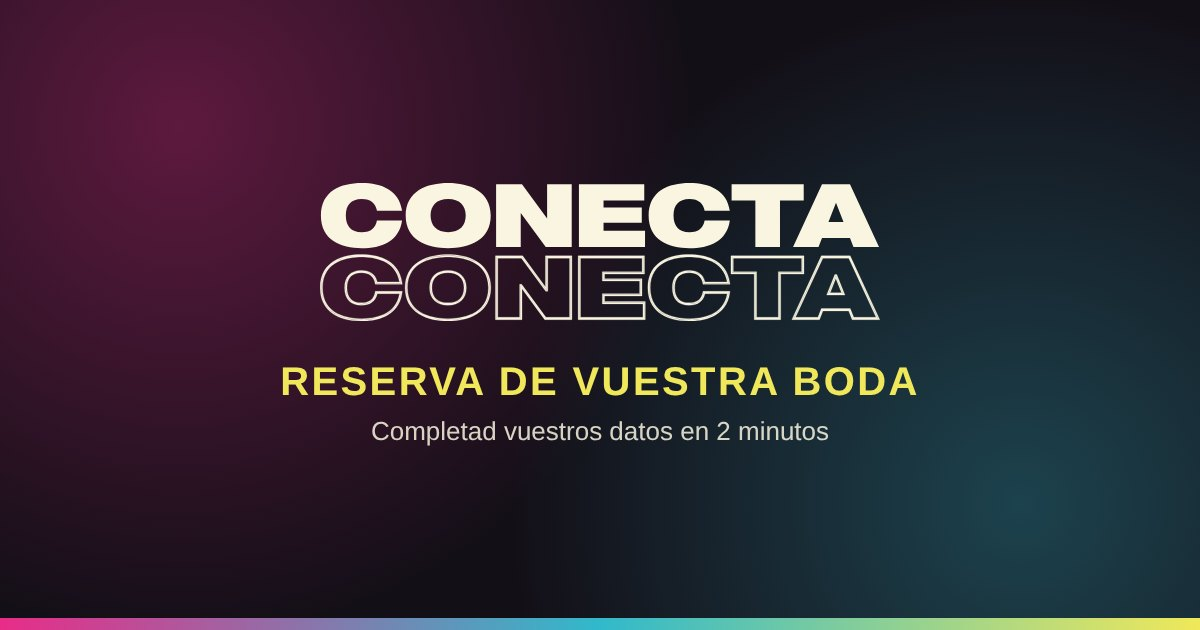
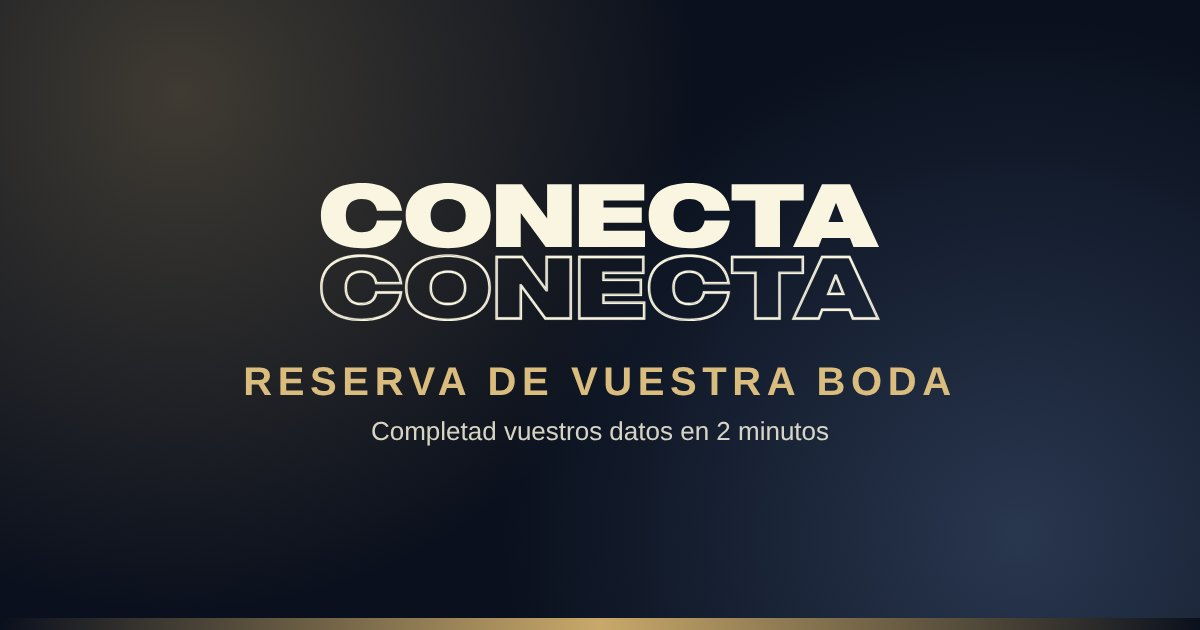
Reservas en azul noche + dorado (pestaña, ventanas, página de los novios y vista previa de WhatsApp); nombre con los dos apellidos obligatorio; numerito en el menú con las reservas con datos recibidos y pasos pendientes
Claude-Session: https://claude.ai/code/session_01QogouWqz99aRZadTndRKpR

Changed region(s): [[0.0, 0.0, 0.8017, 0.6333], [0.0, 0.9651, 1.0, 1.0]]

diff --git a/server/reservas.js b/server/reservas.js
@@ -383,7 +383,8 @@ module.exports = function makeReservas(deps) {
       const n = { s1: sp(b.s1), s2: sp(b.s2), fecha: S(b.fecha, 10), lugar: S(b.lugar, 160), comentario: S(b.comentario, 1500) };
       if (b.wp && b.wp.has && S(b.wp.name)) n.wp = { name: S(b.wp.name), email: S(b.wp.email).toLowerCase() };
       const miss = [];
-      if (!n.s1.name) miss.push('nombre y apellidos'); if (!n.s1.dni) miss.push('DNI / NIE');
+      if (!n.s1.name) miss.push('nombre y los dos apellidos');
+      else if (n.s1.name.split(/\s+/).filter(Boolean).length < 3) miss.push('el nombre completo con los DOS apellidos (lo necesitamos para la factura)'); if (!n.s1.dni) miss.push('DNI / NIE');
       if (!/^[^@\s]+@[^@\s]+\.[^@\s]+$/.test(n.s1.email)) miss.push('email válido'); if (!n.s1.mobile) miss.push('móvil');
       if (!/^\d{4}-\d{2}-\d{2}$/.test(n.fecha)) miss.push('fecha de la boda'); if (!n.lugar) miss.push('lugar de la boda');
       if (!b.consent) miss.push('aceptar el tratamiento de datos');
@@ -408,7 +409,7 @@ module.exports = function makeReservas(deps) {
 <title>${escH(title)}</title><meta name="robots" content="noindex,nofollow">
 <meta property="og:type" content="website"><meta property="og:title" content="${escH(title)}"><meta property="og:description" content="${escH(desc)}">
 <meta property="og:image" content="${escH(base)}/assets/brand/og-reserva.jpg"><meta property="og:image:width" content="1200"><meta property="og:image:height" content="630">
-<meta name="twitter:card" content="summary_large_image"><meta name="theme-color" content="#130F17"><link rel="icon" href="/assets/brand/favicon-32.png">
+<meta name="twitter:card" content="summary_large_image"><meta name="theme-color" content="#0A101D"><link rel="icon" href="/assets/brand/favicon-32.png">
 <link rel="preconnect" href="https://fonts.googleapis.com"><link rel="preconnect" href="https://fonts.gstatic.com" crossorigin><link rel="stylesheet" href="https://fonts.googleapis.com/css2?family=Archivo+Black&display=swap">
 <style>${PAGE_CSS}</style></head><body>
 <header class="top"><img src="/assets/brand/logo-principal-blanco.svg" alt="Conecta So" class="logo"><div class="kick">Reserva de vuestra boda</div></header>
@@ -424,42 +425,46 @@ module.exports = function makeReservas(deps) {
 
 /* ---------------- estilos y lógica de la página pública ---------------- */
 const PAGE_CSS = `
-@font-face{font-family:'Outer Sans';src:url('/assets/fonts/outer-sans-black.woff2') format('woff2');font-weight:900;font-display:swap}
 @font-face{font-family:'Evolve Sans';src:url('/assets/fonts/evolve-sans.woff2') format('woff2');font-weight:400;font-display:swap}
-:root{--ink:#130F17;--cream:#F9F5E1;--pink:#E82C88;--blue:#31B9CB;--yellow:#F0E85A;--muted:#6a6472;--line:#e3ddd0}
+/* Azul noche + dorado (mismos tonos que el tema elegante de la intranet) */
+:root{--bg:#0C1322;--bg2:#0A101D;--card:#131C30;--card2:#182340;--line:#2B3A5C;--text:#ECEFF6;--muted:#9AA6BF;--gold:#C9A96A;--gold2:#E3C68C;--blue:#6F8FC2;--red:#E07A7A;color-scheme:dark}
 *{box-sizing:border-box}html,body{margin:0}
-body{font-family:'Evolve Sans',-apple-system,Segoe UI,Roboto,Arial,sans-serif;background:var(--cream);color:var(--ink);font-size:15px;line-height:1.5}
-.top{background:var(--ink);padding:34px 16px 30px;text-align:center;position:relative;overflow:hidden}
-.top:after{content:"";position:absolute;left:0;right:0;bottom:0;height:6px;background:linear-gradient(90deg,var(--pink),var(--blue),var(--yellow))}
+body{font-family:'Evolve Sans',-apple-system,Segoe UI,Roboto,Arial,sans-serif;background:var(--bg);color:var(--text);font-size:15px;line-height:1.5;
+ background-image:radial-gradient(circle at 10% 0%,rgba(201,169,106,.10),transparent 40%),radial-gradient(circle at 100% 30%,rgba(111,143,194,.12),transparent 45%);background-attachment:fixed}
+.top{background:var(--bg2);padding:36px 16px 30px;text-align:center;position:relative;overflow:hidden;border-bottom:1px solid var(--line)}
+.top:after{content:"";position:absolute;left:0;right:0;bottom:0;height:3px;background:linear-gradient(90deg,transparent,var(--gold),transparent)}
 .logo{width:220px;max-width:70%;height:auto}
-.kick{margin-top:12px;color:var(--yellow);font-family:'Archivo Black','Outer Sans',Arial Black,sans-serif;font-size:13px;letter-spacing:.14em;text-transform:uppercase}
+.kick{margin-top:14px;color:var(--gold);font-family:'Archivo Black',Arial Black,sans-serif;font-size:12.5px;letter-spacing:.22em;text-transform:uppercase}
 main{max-width:620px;margin:0 auto;padding:22px 16px 30px}
-.card{background:#fff;border:2px solid var(--ink);padding:18px 18px;margin-bottom:16px}
-h2{font-family:'Archivo Black','Outer Sans',Arial Black,sans-serif;font-size:19px;margin:0 0 12px;letter-spacing:-.01em}
-h3{font-size:14px;margin:18px 0 8px;text-transform:uppercase;letter-spacing:.06em;color:var(--muted)}
-.pack{font-family:'Archivo Black','Outer Sans',Arial Black,sans-serif;font-size:24px;color:var(--pink)}
-.ex{margin:8px 0 0;padding:0;list-style:none}.ex li{padding:4px 0;border-top:1px dashed var(--line)}.ex li:before{content:"+ ";color:var(--pink);font-weight:700}
-.amount{display:flex;justify-content:space-between;align-items:baseline;margin-top:14px;padding-top:12px;border-top:2px solid var(--ink)}
-.amount b{font-size:22px}
+.card{background:var(--card);border:1px solid var(--line);border-top:2px solid var(--gold);padding:20px 18px;margin-bottom:16px;box-shadow:0 18px 40px rgba(0,0,0,.35)}
+h2{font-family:'Archivo Black',Arial Black,sans-serif;font-size:18px;margin:0 0 12px;letter-spacing:.01em;color:var(--text)}
+h3{font-size:12.5px;margin:20px 0 8px;text-transform:uppercase;letter-spacing:.16em;color:var(--gold)}
+.pack{font-family:'Archivo Black',Arial Black,sans-serif;font-size:26px;color:var(--gold);letter-spacing:.01em}
+.ex{margin:8px 0 0;padding:0;list-style:none}.ex li{padding:6px 0;border-top:1px solid var(--line)}.ex li:before{content:"+ ";color:var(--gold);font-weight:700}
+.amount{display:flex;justify-content:space-between;align-items:baseline;margin-top:14px;padding-top:12px;border-top:1px solid var(--gold)}
+.amount b{font-size:24px;color:var(--gold2)}
 .muted{color:var(--muted)}.small{font-size:12.5px}
-label{display:block;font-weight:700;font-size:13px;margin:12px 0 4px}
-input:not([type=checkbox]),textarea{width:100%;font:inherit;padding:11px 12px;border:2px solid var(--ink);background:#fff;border-radius:0;-webkit-appearance:none}
-input[type=checkbox]{accent-color:var(--pink)}
-input:not([type=checkbox]):focus,textarea:focus{outline:3px solid var(--blue);outline-offset:0}
+label{display:block;font-weight:700;font-size:13px;margin:12px 0 5px;color:var(--text)}
+input:not([type=checkbox]),textarea{width:100%;font:inherit;padding:12px 13px;border:1px solid var(--line);background:#0F172B;color:var(--text);border-radius:0;-webkit-appearance:none}
+input::placeholder,textarea::placeholder{color:#5f6c88}
+input[type=checkbox]{accent-color:var(--gold)}
+input:not([type=checkbox]):focus,textarea:focus{outline:none;border-color:var(--gold);box-shadow:0 0 0 3px rgba(201,169,106,.22)}
+input[type=date]{min-height:48px}
 .grid{display:grid;grid-template-columns:1fr 1fr;gap:0 12px}@media(max-width:520px){.grid{grid-template-columns:1fr}}
 .chk{display:flex;gap:10px;align-items:flex-start;font-weight:400;font-size:13.5px}.chk input{width:20px;height:20px;flex:none;margin-top:1px}
-.btn{display:block;width:100%;padding:15px;border:2px solid var(--ink);background:var(--pink);color:#fff;font-family:'Archivo Black','Outer Sans',Arial Black,sans-serif;font-size:15px;letter-spacing:.04em;text-transform:uppercase;cursor:pointer;box-shadow:4px 4px 0 var(--ink);margin-top:18px;text-align:center;text-decoration:none}
-.btn:active{transform:translate(3px,3px);box-shadow:1px 1px 0 var(--ink)}
-.btn--ghost{background:#fff;color:var(--ink)}
-.err{background:#fde7e9;border:2px solid #c62828;color:#8b1a1a;padding:10px 12px;margin-top:12px;font-weight:700}
+.btn{display:block;width:100%;padding:16px;border:0;background:linear-gradient(135deg,var(--gold2),var(--gold));color:#0C1322;font-family:'Archivo Black',Arial Black,sans-serif;font-size:14.5px;letter-spacing:.08em;text-transform:uppercase;cursor:pointer;box-shadow:0 10px 26px rgba(201,169,106,.28);margin-top:18px;text-align:center;text-decoration:none}
+.btn:active{transform:translateY(1px);box-shadow:0 4px 12px rgba(201,169,106,.25)}
+.btn:disabled{opacity:.7}
+.btn--ghost{background:transparent;color:var(--text);border:1px solid var(--line);box-shadow:none}
+.err{background:rgba(224,122,122,.12);border:1px solid var(--red);border-left:3px solid var(--red);color:#F2B3B3;padding:10px 12px;margin-top:12px;font-weight:700}
 .ok{text-align:center}.ok .big{font-size:46px}
-.ovl{position:fixed;inset:0;background:rgba(19,15,23,.72);display:flex;align-items:center;justify-content:center;padding:16px;z-index:9}
+.ovl{position:fixed;inset:0;background:rgba(5,8,15,.8);display:flex;align-items:center;justify-content:center;padding:16px;z-index:9;backdrop-filter:blur(3px)}
 .ovl .card{max-width:480px;width:100%;margin:0}
-.conf div{padding:9px 0;border-bottom:1px dashed var(--line);font-size:16px}.conf span{display:block;font-size:12px;color:var(--muted);text-transform:uppercase;letter-spacing:.06em}
-.conf .date{font-size:20px;font-weight:800;color:var(--pink)}
-.warn{background:#fff8cc;border:2px solid var(--ink);padding:10px 12px;margin-top:10px;font-weight:700}
+.conf div{padding:10px 0;border-bottom:1px solid var(--line);font-size:16px}.conf span{display:block;font-size:11.5px;color:var(--muted);text-transform:uppercase;letter-spacing:.12em}
+.conf .date{font-size:21px;font-weight:800;color:var(--gold2)}
+.warn{background:rgba(201,169,106,.12);border:1px solid var(--gold);padding:10px 12px;margin-top:10px;font-weight:700;color:var(--gold2)}
 .row2{display:flex;gap:10px}.row2 .btn{margin-top:14px}
-.note{background:#eaf7f9;border:2px solid var(--ink);padding:10px 12px;margin:16px 0 4px;font-size:13.5px}
+.note{background:var(--card2);border:1px solid var(--line);border-left:3px solid var(--gold);padding:11px 13px;margin:16px 0 4px;font-size:13.5px;color:var(--text)}
 .hp{position:absolute;left:-9999px;width:1px;height:1px;overflow:hidden}
 .foot{text-align:center;color:var(--muted);font-size:12px;padding:10px 16px 30px}.foot a{color:var(--muted)}
 `;
@@ -486,7 +491,7 @@ function done(d){
 }
 function form(d,err){
  app.innerHTML=packCard(d)+'<form class="card" id="f" novalidate><h2>Vuestros datos</h2><p class="muted small">Los necesitamos para la factura de reserva y para crear vuestra intranet privada.</p>'+
- '<h3>Datos de uno de los dos</h3><label>Nombre y apellidos</label><input name="s1n" autocomplete="name" required><div class="grid"><div><label>DNI / NIE</label><input name="s1d" required></div><div><label>Móvil</label><input name="s1m" type="tel" autocomplete="tel" required></div></div><label>Email</label><input name="s1e" type="email" autocomplete="email" required>'+
+ '<h3>Datos de uno de los dos</h3><label>Nombre y los dos apellidos</label><input name="s1n" autocomplete="name" placeholder="Ej.: Laura Pérez Gil" required><div class="grid"><div><label>DNI / NIE</label><input name="s1d" required></div><div><label>Móvil</label><input name="s1m" type="tel" autocomplete="tel" required></div></div><label>Email</label><input name="s1e" type="email" autocomplete="email" required>'+
  '<p class="note">💡 Con los datos de uno de los dos es suficiente. Los datos del otro cónyuge los podréis introducir más adelante dentro de vuestra propia intranet.</p>'+
  '<h3>La boda</h3><label>Fecha de la boda</label><input name="fecha" type="date" required><label>Lugar de la celebración (nombre de la finca)</label><input name="lugar" placeholder="Ej.: Mas la Boella" required>'+
  '<label class="chk" style="margin-top:16px"><input type="checkbox" name="wph" id="wph"> Tenemos wedding planner</label><div id="wpb" hidden><label>Nombre de la wedding planner</label><input name="wpn"><label>Email de la wedding planner <span class="muted">(opcional)</span></label><input name="wpe" type="email"></div>'+
@@ -497,7 +502,7 @@ function form(d,err){
  var f=document.getElementById('f');document.getElementById('wph').onchange=function(){document.getElementById('wpb').hidden=!this.checked};
  if(window.__last){Object.keys(window.__last).forEach(function(k){var e=f.elements[k];if(!e)return;if(e.type==='checkbox')e.checked=!!window.__last[k];else e.value=window.__last[k]});document.getElementById('wpb').hidden=!f.elements.wph.checked}
  f.onsubmit=function(ev){ev.preventDefault();var v={};Array.prototype.forEach.call(f.elements,function(e){if(e.name)v[e.name]=e.type==='checkbox'?e.checked:e.value.trim()});window.__last=v;
-  var miss=[];if(!v.s1n)miss.push('nombre y apellidos');if(!v.s1d)miss.push('DNI / NIE');if(!/^[^@\\s]+@[^@\\s]+\\.[^@\\s]+$/.test(v.s1e))miss.push('email válido');if(!v.s1m)miss.push('móvil');if(!v.fecha)miss.push('fecha');if(!v.lugar)miss.push('lugar');if(!v.consent)miss.push('aceptar el tratamiento de datos');
+  var miss=[];if(!v.s1n)miss.push('nombre y los dos apellidos');else if(v.s1n.split(/\\s+/).filter(Boolean).length<3)miss.push('el nombre completo con los DOS apellidos (lo necesitamos para la factura)');if(!v.s1d)miss.push('DNI / NIE');if(!/^[^@\\s]+@[^@\\s]+\\.[^@\\s]+$/.test(v.s1e))miss.push('email válido');if(!v.s1m)miss.push('móvil');if(!v.fecha)miss.push('fecha');if(!v.lugar)miss.push('lugar');if(!v.consent)miss.push('aceptar el tratamiento de datos');
   if(miss.length){form(d,'Falta: '+miss.join(', ')+'.');return}
   confirmBox(d,v)}
 }

diff --git a/public/assets/app-admin.js b/public/assets/app-admin.js
@@ -42,6 +42,7 @@ async function reservasPage() {
   loading(['Reservas']);
   let data; try { data = await api('reservas'); } catch (e) { shell(`<div class="empty">${esc(e.message)}</div>`, ['Reservas']); return; }
   const list = data.reservas || [];
+  try { CS.setBadgeCount('reservas', list.filter(x => x.submittedAt && x.status !== 'cancelada' && (x.checks || []).some(c => !c.at)).length); } catch (e) {}
   // Una reserva solo está "completada" cuando la boda está creada Y todo el checklist marcado.
   const allDone = r => (r.checks || []).length > 0 && (r.checks || []).every(c => c.at);
   const act = list.filter(r => r.status !== 'cancelada' && !(r.status === 'creada' && allDone(r))), done = list.filter(r => r.status === 'creada' && allDone(r)), canc = list.filter(r => r.status === 'cancelada');
@@ -60,10 +61,10 @@ async function reservasPage() {
       <div class="res-card__foot"><span>${esc(r.code)} · ${resEur(r.importe.total)}</span><span class="${ok ? 'res-ok-txt' : 'res-no-txt'}">${cancel ? '' : (ok ? 'Todo hecho' : `Faltan ${nTot - nChk} pasos`)}</span></div>
       ${cancel ? '' : `<div class="res-bar"><span style="width:${nTot ? Math.round(nChk / nTot * 100) : 0}%"></span></div>`}</div>`;
   };
-  shell(`${pageHead('Reservas', 'Ventas directas: genera el enlace para los novios y sigue cada reserva hasta crear la boda.', `<button class="btn btn--primary" id="resNew">+ Nueva venta</button>${data.isAdmin ? ' <button class="btn" id="resCfg">⚙ Configuración</button>' : ''}`)}
+  shell(`<div class="res-scope">${pageHead('Reservas', 'Ventas directas: genera el enlace para los novios y sigue cada reserva hasta crear la boda.', `<button class="btn btn--primary" id="resNew">+ Nueva venta</button>${data.isAdmin ? ' <button class="btn" id="resCfg">⚙ Configuración</button>' : ''}`)}
     ${act.length ? `<div class="res-grid">${act.map(card).join('')}</div>` : '<div class="panel"><div class="panel__body"><p class="hint">No hay reservas en curso. Pulsa <b>+ Nueva venta</b> para generar un enlace.</p></div></div>'}
     ${done.length ? `<details class="res-more"><summary>Completadas: boda creada y todo el checklist hecho (${done.length})</summary><div class="res-grid">${done.map(card).join('')}</div></details>` : ''}
-    ${canc.length ? `<details class="res-more"><summary>Canceladas (${canc.length})</summary><div class="res-grid">${canc.map(card).join('')}</div></details>` : ''}`, ['Reservas']);
+    ${canc.length ? `<details class="res-more"><summary>Canceladas (${canc.length})</summary><div class="res-grid">${canc.map(card).join('')}</div></details>` : ''}</div>`, ['Reservas']);
   el('resNew').onclick = () => reservaNueva(data);
   if (el('resCfg')) el('resCfg').onclick = () => reservasConfig();
   $$('[data-res]').forEach(c => c.onclick = () => reservaDetalle(+c.dataset.res, data));
@@ -96,7 +97,7 @@ function reservaNueva(data, cur) {   // cur = reserva existente → modo EDITAR 
       reservaLink(r.reserva); reservasPage();
     } catch (e) { toast(e.message, 'err'); return true; }
   } });
-  bg.querySelector('.modal').classList.add('modal--wide');
+  bg.querySelector('.modal').classList.add('modal--wide', 'res-modal');
   const total = () => {
     const pack = (bg.querySelector('[name=pack]:checked') || {}).value;
     const nEx = $$('#rnExtras input:checked', bg).length + $$('[data-otro]', bg).filter(r => r.dataset.suma === '1' && r.querySelector('input[type=text]').value.trim()).length;
@@ -125,10 +126,11 @@ function reservaNueva(data, cur) {   // cur = reserva existente → modo EDITAR 
   total();
 }
 function reservaLink(r) {
-  modal('Enlace listo para enviar', `<p>Envíaselo a los novios por WhatsApp. Al abrirlo verán su pack y rellenarán sus datos.</p>
+  const lbg = modal('Enlace listo para enviar', `<p>Envíaselo a los novios por WhatsApp. Al abrirlo verán su pack y rellenarán sus datos.</p>
     <div class="res-link"><input class="control" readonly value="${esc(r.link)}" id="rlInp"></div>
     <div class="btn-row" style="margin-top:10px"><button type="button" class="btn btn--primary" id="rlCopy">📋 Copiar enlace</button><a class="btn" target="_blank" rel="noopener" href="${esc(waShare(r.link))}">💬 Enviar por WhatsApp</a></div>
     <p class="hint" style="margin-top:10px">Importe de la reserva: <b>${resEur(r.importe.base)} + IVA = ${resEur(r.importe.total)}</b></p>`);
+  lbg.querySelector('.modal').classList.add('res-modal');
   el('rlCopy').onclick = () => copyText(r.link);
 }
 async function reservaDetalle(id, data) {
@@ -172,7 +174,7 @@ async function reservaDetalle(id, data) {
     ${r.eventId ? `<p style="margin-top:14px"><a class="btn btn--primary" href="#/eventos/${r.eventId}">Abrir la boda #${r.eventId}</a></p>` : ''}
     ${canCreate ? `<p style="margin-top:14px"><button type="button" class="btn btn--primary" id="rdCreate">🎉 Crear boda</button></p>` : (adm && !r.eventId && r.submittedAt && !r.cancelled ? '<p class="hint" style="margin-top:12px">El botón <b>Crear boda</b> aparece cuando la factura está pagada en Holded (o marcas "Pago recibido").</p>' : '')}
     ${adm && !r.eventId ? `<p style="margin-top:14px"><button type="button" class="btn btn--sm btn--ghost" id="rdCancel">${r.cancelled ? 'Reactivar reserva' : 'Cancelar reserva'}</button></p>` : ''}`);
-  bg.querySelector('.modal').classList.add('modal--wide');
+  bg.querySelector('.modal').classList.add('modal--wide', 'res-modal');
   const refresh = () => { bg.remove(); reservaDetalle(id, data); reservasPageQuiet(); };
   const q = (sel) => bg.querySelector(sel);
   q('#rdCopy').onclick = () => copyText(r.link);
@@ -206,6 +208,7 @@ async function reservaCrearBoda(r, after) {
       after(); location.hash = '#/eventos/' + res.event.id;
     } catch (e) { toast(e.message, 'err'); return true; }
   } });
+  bg.querySelector('.modal').classList.add('res-modal');
   bg.querySelector('#cbTar').onchange = e => { bg.querySelector('#cbTarBox').style.display = e.target.checked ? '' : 'none'; bg.querySelector('#cbPago').value = e.target.checked && t ? t.total : 0; };
 }
 async function reservasConfig() {
@@ -227,7 +230,7 @@ async function reservasConfig() {
     const hiddenExtras = $$('[data-hide]', bg).filter(i => i.checked).map(i => +i.dataset.hide);
     try { await api('reservas/config', { method: 'PUT', body: { welcome, tarifa: { packs, extras }, hiddenExtras } }); toast('Configuración guardada ✓', 'ok'); } catch (e) { toast(e.message, 'err'); return true; }
   } });
-  bg.querySelector('.modal').classList.add('modal--wide');
+  bg.querySelector('.modal').classList.add('modal--wide', 'res-modal');
 }
 on(/^#\/papelera$/, () => papeleraEventos());
 async function papeleraEventos() {

diff --git a/public/assets/app.css b/public/assets/app.css
@@ -1573,3 +1573,40 @@ html.night-dim .res-total,html.night-dim .res-fact{background:#182340}
 .res-card--ok .res-bar{background:#cfe9d9}.res-card--ok .res-bar span{background:#0B8043}
 .res-hide{display:grid;grid-template-columns:repeat(auto-fill,minmax(210px,1fr));gap:2px 12px;max-height:220px;overflow:auto;border:1px solid var(--line);padding:6px 8px}
 .res-hide label{display:flex;gap:8px;align-items:center;font-size:13px;font-weight:500}
+/* ---------- RESERVAS en azul noche + dorado (pestaña y sus ventanas) ---------- */
+.res-scope,.res-modal{
+  --white:#131C30;--cream:#0F172B;--ink:#ECEFF6;--onyx:#2B3A5C;--onyx-soft:#344668;--muted:#9AA6BF;--line:#243352;
+  --pink:#C9A96A;--pink-d:#B4934F;--blue:#6F8FC2;--yellow:#C9A96A;--shadow-sticker:none;color:#ECEFF6;color-scheme:dark}
+.res-scope{background:#0C1322;background-image:radial-gradient(circle at 0% 0%,rgba(201,169,106,.09),transparent 40%),radial-gradient(circle at 100% 20%,rgba(111,143,194,.10),transparent 45%);
+  margin:-24px -26px -60px;padding:24px 26px 60px;min-height:calc(100vh - 62px)}
+@media(max-width:720px){.res-scope{margin:-16px -16px -60px;padding:16px 16px 60px}}
+.res-scope .page-head h1{color:#ECEFF6}.res-scope .page-head .lead{color:#9AA6BF}
+.res-scope .page-head__accent{background:linear-gradient(90deg,#E3C68C,#C9A96A)}
+.res-scope .btn,.res-modal .btn{color:#ECEFF6;border-color:#3A4D75;background:#131C30}
+.res-scope .btn:hover,.res-modal .btn:hover{border-color:#C9A96A;color:#E3C68C}
+.res-scope .btn--primary,.res-modal .btn--primary,.res-modal .btn--dark{background:linear-gradient(135deg,#E3C68C,#C9A96A);border-color:#C9A96A;color:#0C1322!important;box-shadow:0 8px 20px rgba(201,169,106,.25)}
+.res-scope .btn--ghost,.res-modal .btn--ghost{background:transparent}
+.res-scope .tag,.res-modal .tag{color:#0C1322}
+.res-scope .res-card{background:#131C30;border-color:#2B3A5C;box-shadow:0 12px 28px rgba(0,0,0,.35)}
+.res-scope .res-card__pack{color:#E3C68C}.res-scope .res-card__pack .muted{color:#9AA6BF}
+.res-scope .res-card__foot{border-top-color:#2B3A5C}
+.res-scope .res-more summary{color:#E3C68C}
+.res-scope .res-no-txt{color:#F08A8A}.res-scope .res-ok-txt{color:#6FD39B}
+.res-scope .res-bar{background:rgba(224,122,122,.18)}.res-scope .res-card--ok .res-bar{background:rgba(95,191,143,.18)}
+.res-scope .panel{background:#131C30;border-color:#2B3A5C}
+.res-modal{background:#131C30;border:1px solid #2B3A5C;border-top:2px solid #C9A96A;box-shadow:0 24px 60px rgba(0,0,0,.55)}
+.res-modal h3{color:#ECEFF6}
+.res-modal .form-sub{color:#C9A96A;border-bottom-color:#2B3A5C}
+.res-modal .readbox{background:#0F172B;border-color:#2B3A5C;color:#ECEFF6}
+.res-modal .control{background:#0F172B;border-color:#2B3A5C;color:#ECEFF6}
+.res-modal .control:focus{box-shadow:0 0 0 3px rgba(201,169,106,.22);border-color:#C9A96A}
+.res-modal .res-pack{background:#0F172B;border-color:#2B3A5C;color:#ECEFF6}
+.res-modal .res-pack:has(input:checked){background:linear-gradient(135deg,#E3C68C,#C9A96A);border-color:#C9A96A;color:#0C1322}
+.res-modal .res-pack:has(input:checked) small{color:#0C1322}
+.res-modal .res-extras,.res-modal .res-hide{border-color:#2B3A5C}
+.res-modal .res-total,.res-modal .res-fact{background:#0F172B;border-color:#2B3A5C}
+.res-modal .res-chk{border-color:#2B3A5C}
+.res-modal .res-chk.on{background:rgba(95,191,143,.10);border-color:rgba(95,191,143,.45)}
+.res-modal .res-otro{border-color:#2B3A5C}
+.res-modal a{color:#E3C68C}
+.res-modal input[type=checkbox],.res-modal input[type=radio]{accent-color:#C9A96A}

diff --git a/public/assets/app.js b/public/assets/app.js
@@ -582,7 +582,7 @@ function navFor(role) {
     { s: 'Principal' }, { t: 'Inicio', i: 'home', h: '#/' },
     { s: 'Eventos' }, { t: 'Bodas pendientes', i: 'events', h: '#/eventos' }, { t: 'Bodas realizadas', i: 'events', h: '#/eventos/realizados' },
     { t: 'Servicios extras', i: 'extras', h: '#/extras' },
-    { t: 'Reservas', i: 'events', h: '#/reservas' },
+    { t: 'Reservas', i: 'events', h: '#/reservas', badge: 'reservas' },
     { t: 'Fotomatón', i: 'camera', h: '#/fotomaton' },
     { s: 'Equipo' }, { t: 'Usuarios', i: 'users', h: '#/usuarios' }, { t: 'Localizaciones', i: 'loc', h: '#/localizaciones' },
     { t: 'Control horario', i: 'clock', h: '#/horario', badge: 'horario' }, { t: 'Vacaciones', i: 'plane', h: '#/vacaciones', badge: 'vacaciones' },
@@ -596,7 +596,7 @@ function navFor(role) {
     return [
       { s: 'Mi trabajo' }, { t: 'Inicio', i: 'home', h: '#/' }, { t: 'Mis eventos', i: 'events', h: '#/eventos' },
       { t: 'Realizados', i: 'events', h: '#/eventos/realizados' },
-      ...((S.user && S.user.comercial) ? [{ s: 'Ventas' }, { t: 'Reservas', i: 'events', h: '#/reservas' }] : []),
+      ...((S.user && S.user.comercial) ? [{ s: 'Ventas' }, { t: 'Reservas', i: 'events', h: '#/reservas', badge: 'reservas' }] : []),
       ...(tt ? [{ s: 'Tiempo' }, { t: 'Mi control horario', i: 'clock', h: '#/horario' }, { t: 'Mis vacaciones', i: 'plane', h: '#/vacaciones' }] : []),
       ...((tt || [723, 292].includes(S.user && S.user.id)) ? [{ s: 'Nóminas' }, { t: 'Mis nóminas', i: 'doc', h: '#/nominas' }] : []),
       { s: 'Otros' }, { t: 'Mis horas extra', i: 'clock', h: '#/mis-horas' }, { t: 'Mis pagos', i: 'euro', h: '#/mis-pagos' },
@@ -791,6 +791,8 @@ function markActive() {
 // --- Badges tipo "notificación" (nº de descuadres / impagos) en el menú y en las pestañas ---
 const _badgeCache = { descuadres: { t: 0, n: null, p: null }, impagos: { t: 0, n: null, p: null } };
 const _badgeFetch = {
+  // Reservas con datos ya recibidos de los novios y algo pendiente en el checklist (no canceladas)
+  reservas: () => api('reservas').then(r => ((r && r.reservas) || []).filter(x => x.submittedAt && x.status !== 'cancelada' && (x.checks || []).some(c => !c.at)).length),
   descuadres: () => api('holded-descuadres').then(r => (!r || r.enabled === false) ? 0
     : ((r.sinVincularN || (r.sinVincular || []).length || 0) + ((r.payMismatches || []).length) + ((r.serviceWarnings || []).length))),
   impagos: () => api('holded-unpaid').then(r => (!r || r.enabled === false) ? 0 : ((r.invoices || []).length)),
